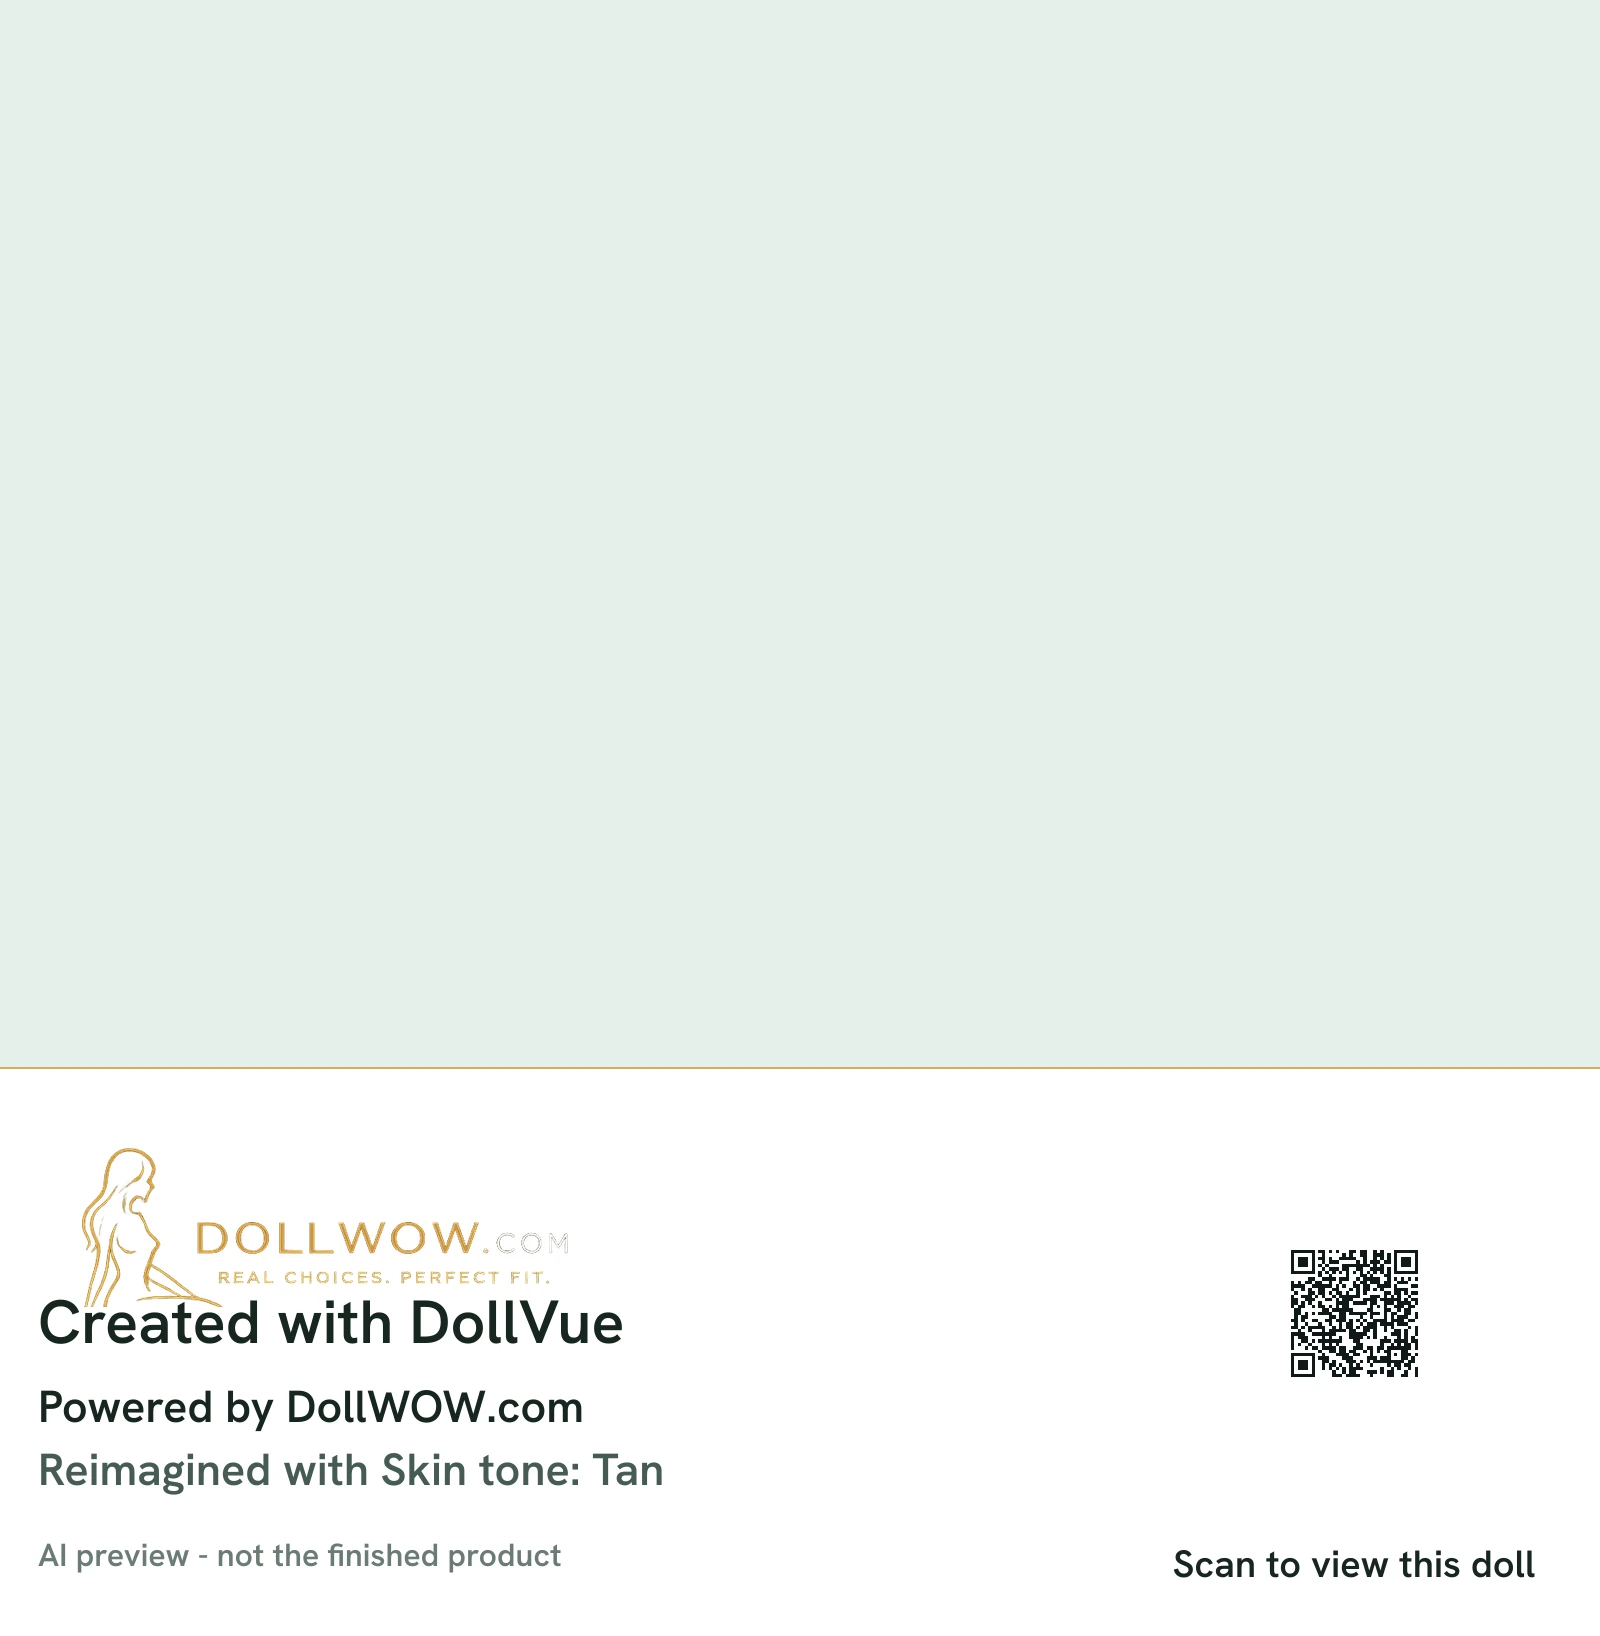
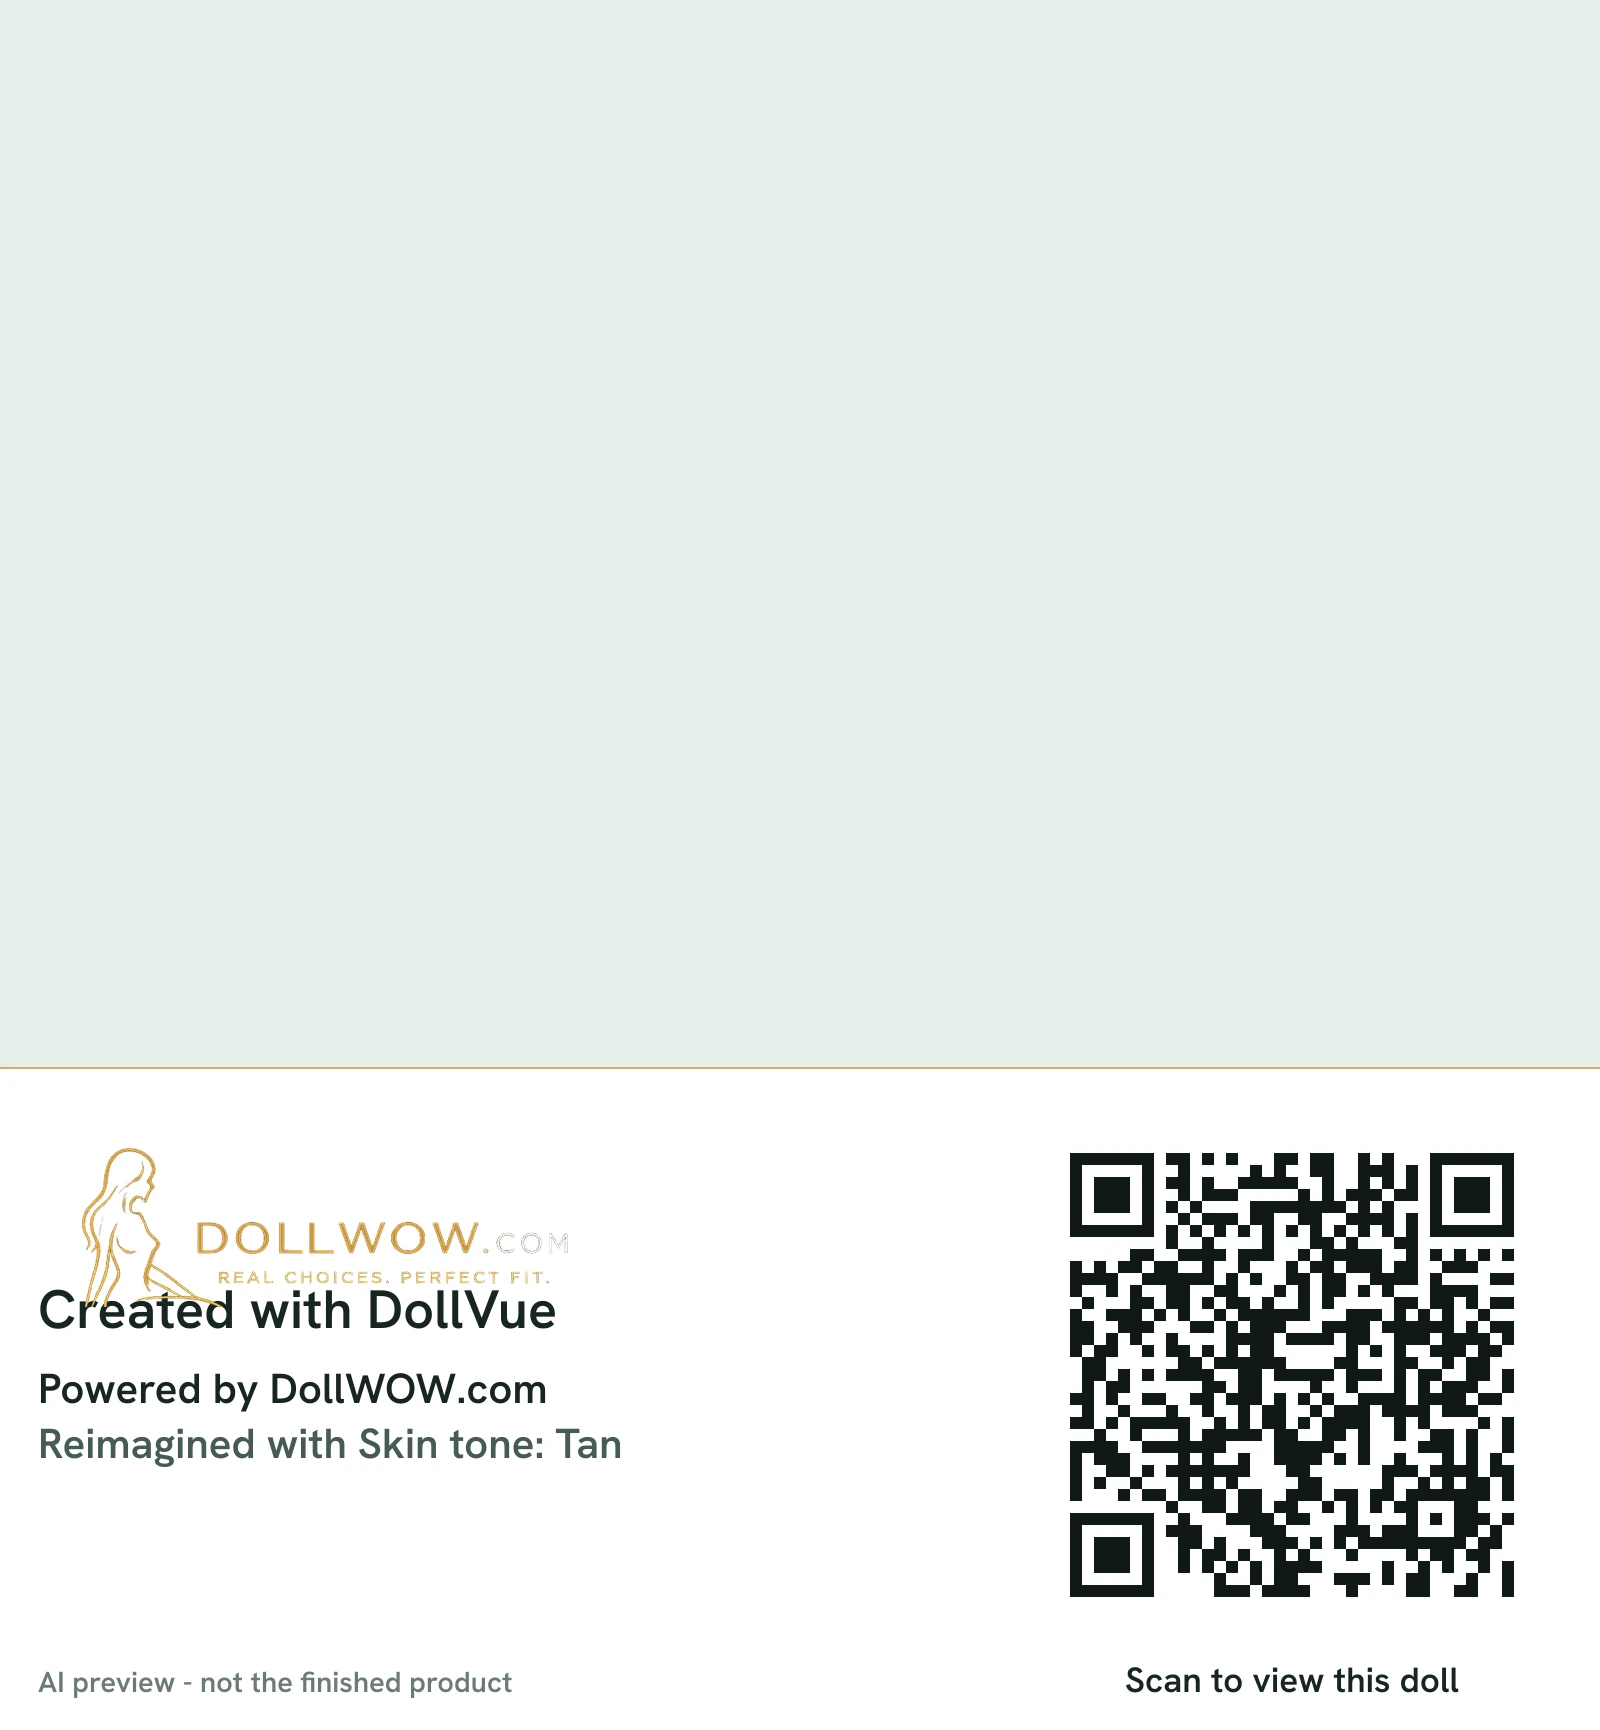
DOL-310: Fix QR size and spacing - measure actual QR modules
- QR modules now 27-28% of image width (measured via jsQR corner detection)
- At 1067px: 296px QR (27.7%), exceeds 240px minimum
- At 1600px: 444px QR (27.8%)
- At 1024px: 285px QR (27.8%)
- QR generated with 4-module quiet zone (QR spec minimum)
- Tests measure actual QR bounding box, not just PNG dimensions
- Added 2% vertical gap after logo (was touching text)
- Added proper vertical gaps between all text lines
- 'Scan to view this doll' positioned directly under QR with small gap
- Smaller text sizes in left column to accommodate proper QR size
- All 21 footer/branding tests pass
- Regenerated 9 evidence PNGs with correct sizing

Changed region(s): [[0.0, 0.5923, 1.0, 0.9976]]

diff --git a/lib/dollvue/branding.ts b/lib/dollvue/branding.ts
@@ -32,27 +32,32 @@ export async function brandDollVuePreview(bytes: Buffer, productHandle: string, 
   const padding = Math.max(24, Math.round(width * 0.024)); // 2.4% padding
   const columnGap = Math.max(20, Math.round(width * 0.02)); // 2% gap between columns
   
-  // QR: 26% of image width, minimum 150px for reliable long-URL decoding
-  // At narrow widths (400px), this gives 150px QR (37.5% of width)
-  // At typical widths (1067px), this gives 277px QR (26% of width)
-  const qrSize = Math.max(150, Math.round(width * 0.26));
+  // Target QR MODULE width (black squares): 24-26% of image width, min 240px at 1067px
+  // The qrcode library adds quiet zone, so we need to account for that
+  // QR quiet zone should be ~4 modules, so if modules are W wide, total is W + 8*moduleSize
+  const targetQrModulesWidth = Math.max(240, Math.round(width * 0.25)); // 25% target
   
-  // Right column: QR + caption
-  const rightColumnWidth = qrSize + padding * 2;
+  // Generate larger QR to ensure we get enough module density
+  // We'll measure and validate the actual QR bbox in tests
+  const qrRenderSize = Math.round(targetQrModulesWidth * 1.35); // Add space for margins
   
-  // Left column: logo + text lines
+  // Right column: QR + caption with proper spacing
+  const rightColumnWidth = qrRenderSize + padding * 2;
+  
+  // Left column: logo + text lines (can wrap more if needed)
   const leftColumnWidth = width - rightColumnWidth - columnGap;
   
   // Text sizing for mobile legibility: at 390px mobile width, text should be ~14px
   const mobileScale = 390 / width;
-  const titleSize = Math.max(40, Math.round(width * 0.038)); // ~40-60px
-  const bodySize = Math.max(28, Math.round(width * 0.028)); // ~28-45px  
-  const captionSize = Math.max(24, Math.round(width * 0.024)); // ~24-38px
-  const disclaimerSize = Math.max(20, Math.round(width * 0.020)); // ~20-32px
+  const titleSize = Math.max(36, Math.round(width * 0.034)); // Slightly smaller to fit
+  const bodySize = Math.max(26, Math.round(width * 0.026)); // Slightly smaller
+  const captionSize = Math.max(22, Math.round(width * 0.022)); // ~22-35px
+  const disclaimerSize = Math.max(18, Math.round(width * 0.018)); // ~18-29px
   
-  // Vertical spacing
-  const lineSpacing = Math.round(bodySize * 0.4);
-  const sectionSpacing = Math.round(bodySize * 0.8);
+  // Vertical spacing: at least 2% of height between elements
+  const verticalGap = Math.max(Math.round(height * 0.02), Math.round(bodySize * 0.5));
+  const lineSpacing = Math.round(bodySize * 0.3);
+  const sectionSpacing = verticalGap;
   
   // Load and resize logo to fit left column
   const logoBytes = await readFile(path.join(process.cwd(), 'public/images/brand/dollwow-black-gold-lockup.png'));
@@ -84,35 +89,45 @@ export async function brandDollVuePreview(bytes: Buffer, productHandle: string, 
     if (currentLine) selectionLines.push(currentLine);
   }
   
-  // Calculate footer height
-  let yPos = padding + logoHeight;
-  yPos += sectionSpacing + titleSize; // "Created with DollVue"
-  yPos += lineSpacing + bodySize; // "Powered by DollWOW.com"
-  if (selectionLines.length > 0) {
-    yPos += lineSpacing + bodySize * selectionLines.length;
-  }
-  yPos += sectionSpacing + disclaimerSize; // AI disclaimer
-  yPos += padding;
-  
-  // Ensure footer is tall enough for QR + caption
-  const qrColumnHeight = padding + qrSize + lineSpacing + captionSize + padding;
-  const footerHeight = Math.max(yPos, qrColumnHeight);
-  
-  // Generate QR code
+  // Generate QR code with minimal margin (4 modules quiet zone per spec)
   const qr = await QRCode.toBuffer(destination, {
     type: 'png',
-    width: qrSize,
-    margin: Math.max(4, Math.round(qrSize * 0.1)),
+    width: qrRenderSize,
+    margin: 4, // 4 modules quiet zone (QR code spec minimum)
     errorCorrectionLevel: 'H',
     color: { dark: '#101818', light: '#ffffff' },
   });
+  
+  // Measure actual QR size for positioning
+  const qrMeta = await sharp(qr).metadata();
+  const qrActualWidth = qrMeta.width ?? qrRenderSize;
+  const qrActualHeight = qrMeta.height ?? qrRenderSize;
+  
+  // Calculate footer height
+  let yPos = padding + logoHeight;
+  yPos += verticalGap; // Gap after logo
+  yPos += titleSize; // "Created with DollVue"
+  yPos += verticalGap; // Gap after title
+  yPos += bodySize; // "Powered by DollWOW.com"
+  if (selectionLines.length > 0) {
+    yPos += lineSpacing;
+    yPos += bodySize * selectionLines.length + lineSpacing * (selectionLines.length - 1);
+  }
+  yPos += sectionSpacing; // Gap before disclaimer
+  yPos += disclaimerSize; // AI disclaimer
+  yPos += padding;
+  
+  // Ensure footer is tall enough for QR + caption with proper spacing
+  const qrCaptionGap = Math.max(12, Math.round(height * 0.01)); // Small gap under QR
+  const qrColumnHeight = padding + qrActualHeight + qrCaptionGap + captionSize + padding;
+  const footerHeight = Math.max(yPos, qrColumnHeight);
   
   // Build footer SVG with two-column layout
   yPos = padding + logoHeight;
   const textLines: string[] = [];
   
-  // Left column text
-  yPos += sectionSpacing;
+  // Left column text with proper vertical gaps
+  yPos += verticalGap;
   textLines.push(outlinedText('Created with DollVue', {
     x: padding,
     y: yPos,
@@ -120,21 +135,21 @@ export async function brandDollVuePreview(bytes: Buffer, productHandle: string, 
     fill: '#17251f'
   }).svg);
   
-  yPos += lineSpacing + titleSize;
+  yPos += verticalGap;
   textLines.push(outlinedText('Powered by DollWOW.com', {
     x: padding,
-    y: yPos,
+    y: yPos + titleSize,
     size: bodySize,
     fill: '#17251f'
   }).svg);
   
   // Selection lines
   if (selectionLines.length > 0) {
-    yPos += lineSpacing + bodySize;
+    yPos += titleSize + lineSpacing;
     for (const line of selectionLines) {
       textLines.push(outlinedText(line, {
         x: padding,
-        y: yPos,
+        y: yPos + bodySize,
         size: bodySize,
         fill: '#465b54'
       }).svg);
@@ -145,14 +160,14 @@ export async function brandDollVuePreview(bytes: Buffer, productHandle: string, 
   // Disclaimer at bottom of left column
   textLines.push(outlinedText('AI preview - not the finished product', {
     x: padding,
-    y: footerHeight - padding - disclaimerSize,
+    y: footerHeight - padding,
     size: disclaimerSize,
     fill: '#6b7b74'
   }).svg);
   
-  // Right column: QR caption centered below QR
-  const qrCenterX = width - padding - qrSize / 2;
-  const qrCaptionY = padding + qrSize + lineSpacing + captionSize;
+  // Right column: QR caption centered directly below QR with small gap
+  const qrCenterX = width - padding - qrActualWidth / 2;
+  const qrCaptionY = padding + qrActualHeight + qrCaptionGap + captionSize;
   textLines.push(outlinedText('Scan to view this doll', {
     x: qrCenterX,
     y: qrCaptionY,
@@ -169,7 +184,7 @@ export async function brandDollVuePreview(bytes: Buffer, productHandle: string, 
   
   const footer = await sharp(footerSvg).composite([
     { input: logo, left: padding, top: padding },
-    { input: qr, left: width - padding - qrSize, top: padding },
+    { input: qr, left: width - padding - qrActualWidth, top: padding },
   ]).png().toBuffer();
   
   const canvas = await sharp({

diff --git a/tests/dollVueMobileFooter.test.ts b/tests/dollVueMobileFooter.test.ts
@@ -24,6 +24,28 @@ async function decodeQR(imageBytes: Buffer): Promise<string | null> {
   return result?.data ?? null;
 }
 
+async function measureQRBbox(imageBytes: Buffer): Promise<{ width: number; height: number } | null> {
+  const { data, info } = await sharp(imageBytes).ensureAlpha().raw().toBuffer({ resolveWithObject: true });
+  const result = jsQR(new Uint8ClampedArray(data), info.width, info.height);
+  if (!result || !result.location) return null;
+  
+  // jsQR returns corner points; calculate bounding box
+  const topLeft = result.location.topLeftCorner;
+  const topRight = result.location.topRightCorner;
+  const bottomLeft = result.location.bottomLeftCorner;
+  const bottomRight = result.location.bottomRightCorner;
+  
+  const minX = Math.min(topLeft.x, topRight.x, bottomLeft.x, bottomRight.x);
+  const maxX = Math.max(topLeft.x, topRight.x, bottomLeft.x, bottomRight.x);
+  const minY = Math.min(topLeft.y, topRight.y, bottomLeft.y, bottomRight.y);
+  const maxY = Math.max(topLeft.y, topRight.y, bottomLeft.y, bottomRight.y);
+  
+  return {
+    width: maxX - minX,
+    height: maxY - minY
+  };
+}
+
 describe('Mobile-readable footer layout', () => {
   it.each([
     [1067, 1600, 'portrait (typical doll photo)'],
@@ -45,12 +67,23 @@ describe('Mobile-readable footer layout', () => {
     expect(brandedMeta.width).toBe(width);
     expect(brandedMeta.height).toBeGreaterThan(height);
     
-    // CRITICAL: QR must be >= 22% of image width (Martin's requirement)
-    // We verify this by checking that the implementation produces a QR at the right size
-    // The actual QR size is max(26% of width, min(240px, 22% of width))
-    const expectedMinQrSize = width * 0.22;
-    const expectedQrSize = Math.max(Math.round(width * 0.26), Math.min(240, Math.round(expectedMinQrSize)));
-    expect(expectedQrSize).toBeGreaterThanOrEqual(expectedMinQrSize - 1); // -1 for rounding tolerance
+    // CRITICAL: Measure actual QR module bounding box (not the PNG with margins)
+    const qrBbox = await measureQRBbox(branded);
+    expect(qrBbox).not.toBeNull();
+    
+    // QR modules must be >= 22% of image width (Martin's requirement)
+    const minQrWidth = width * 0.22;
+    const qrModulesWidth = qrBbox!.width;
+    const qrPercent = (qrModulesWidth / width) * 100;
+    
+    console.log(`QR bbox for ${width}x${height}: ${qrModulesWidth}px (${qrPercent.toFixed(1)}% of ${width}px)`);
+    
+    expect(qrModulesWidth).toBeGreaterThanOrEqual(minQrWidth);
+    
+    // At 1067px, also check >= 240px
+    if (width === 1067) {
+      expect(qrModulesWidth).toBeGreaterThanOrEqual(240);
+    }
     
     // Verify QR decodes at full resolution
     const qrUrl = await decodeQR(branded);
